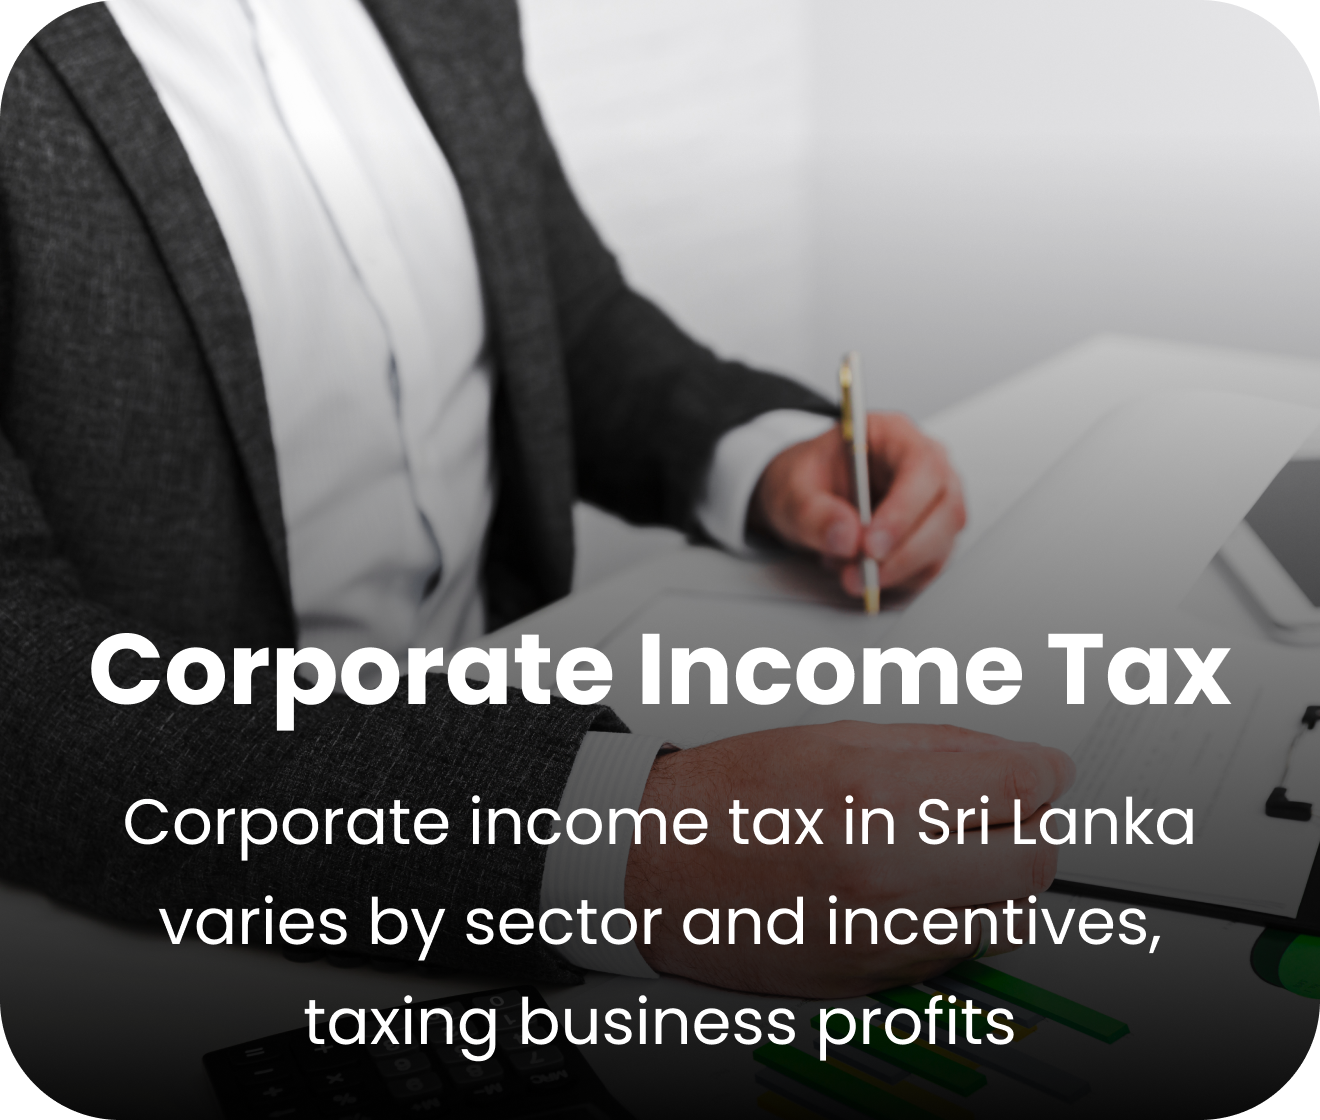
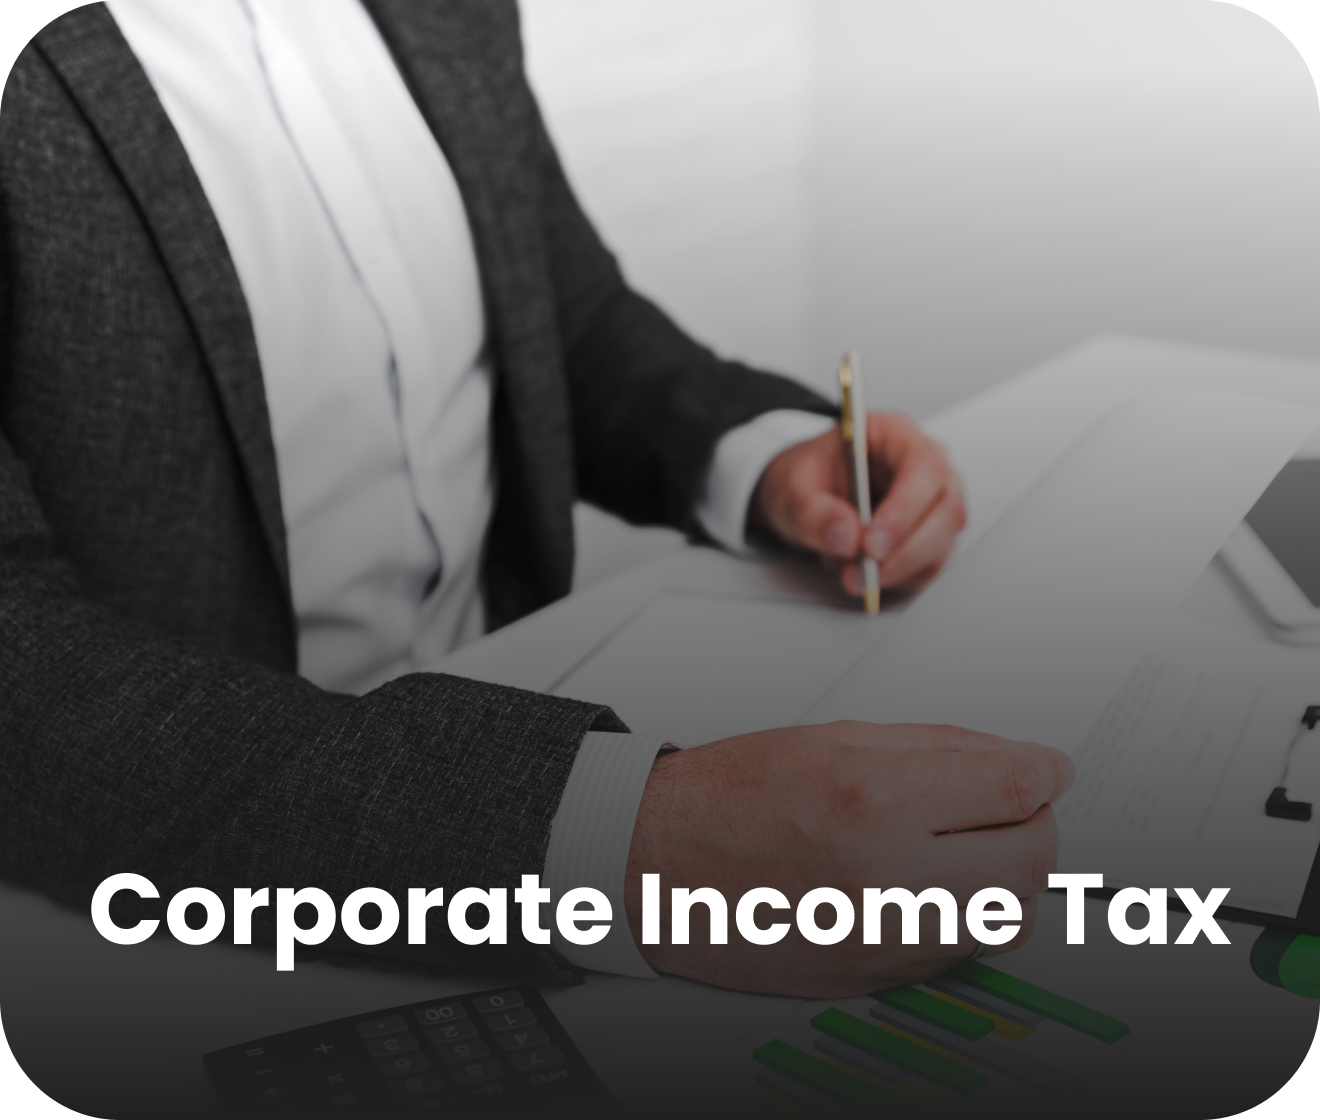
Flipping card

Changed region(s): [[0.0621, 0.7188, 0.9318, 1.0], [0.0621, 0.5625, 0.9318, 0.6562], [0.7765, 0.9688, 0.8386, 1.0]]

diff --git a/taxperts_web_final/lib/HomePage/home_desktop.dart b/taxperts_web_final/lib/HomePage/home_desktop.dart
@@ -1,3 +1,4 @@
+import 'package:flip_card/flip_card.dart';
 import 'package:flutter/material.dart';
 import 'package:taxperts_web_final/colors.dart';
 import 'package:taxperts_web_final/sizes.dart';
@@ -15,6 +16,41 @@ class HomeDesktop extends StatefulWidget {
 }
 
 class _HomeDesktopState extends State<HomeDesktop> {
+  final Map<int, GlobalKey<FlipCardState>> cardKeys = {};
+
+  @override
+  void initState() {
+    super.initState();
+    // Initialize keys for each card
+    for (int i = 0; i < 5; i++) {
+      cardKeys[i] = GlobalKey<FlipCardState>();
+    }
+  }
+
+  final List<Map<String, String>> cardData = [
+    {
+      'frontImage': 'images/IIT.png',
+      'backImage': 'images/IITback.png',
+    },
+    {
+      'frontImage': 'images/CorporateITax.png',
+      'backImage': 'images/CorporateITaxback.png',
+    },
+    {
+      'frontImage': 'images/PartnershipITax.png',
+      'backImage': 'images/PartnershipITaxback.png',
+    },
+    {
+      'frontImage': 'images/VAT.png',
+      'backImage': 'images/VATback.png',
+    },
+    {
+      'frontImage': 'images/SSCL.png',
+      'backImage': 'images/SSCLback.png',
+    },
+    // Add more image pairs if you have more than 5 cards
+  ];
+
   Map<int, bool> hoverStates = {};
   int _selectedIndex = 0;
 
@@ -224,14 +260,14 @@ class _HomeDesktopState extends State<HomeDesktop> {
                 ],
               ),
             ),
-
-            SizedBox(height: 80,),
-
+            SizedBox(
+              height: 80,
+            ),
             Row(
               mainAxisAlignment: MainAxisAlignment.center,
               children: [
                 Padding(
-                  padding:  EdgeInsets.symmetric(horizontal: p60),
+                  padding: EdgeInsets.symmetric(horizontal: p60),
                   child: Column(
                     children: [
                       Text(
@@ -241,11 +277,11 @@ class _HomeDesktopState extends State<HomeDesktop> {
                             color: Colors.black,
                             fontWeight: FontWeight.w600),
                       ),
-
                       Row(
                         children: [
                           Padding(
-                            padding: const EdgeInsets.symmetric(horizontal: 15.0,vertical: 10),
+                            padding: const EdgeInsets.symmetric(
+                                horizontal: 15.0, vertical: 10),
                             child: ElevatedButton(
                               onPressed: () {
                                 // Handle button tap
@@ -268,10 +304,9 @@ class _HomeDesktopState extends State<HomeDesktop> {
                               ),
                             ),
                           ),
-
-
                           Padding(
-                            padding: const EdgeInsets.symmetric(horizontal: 15.0,vertical: 10),
+                            padding: const EdgeInsets.symmetric(
+                                horizontal: 15.0, vertical: 10),
                             child: ElevatedButton(
                               onPressed: () {
                                 // Handle button tap
@@ -282,13 +317,12 @@ class _HomeDesktopState extends State<HomeDesktop> {
                                     'Read More',
                                     style: TextStyle(fontSize: 14),
                                   ),
-
                                   Padding(
-                                    padding: const EdgeInsets.only(top: 1.0,left: 2),
+                                    padding: const EdgeInsets.only(
+                                        top: 1.0, left: 2),
                                     child: Icon(
                                       Icons.keyboard_double_arrow_right_rounded,
-                                      color:
-                                      Colors.white, // Icon color green
+                                      color: Colors.white, // Icon color green
                                       size: 20,
                                     ),
                                   ),
@@ -310,15 +344,11 @@ class _HomeDesktopState extends State<HomeDesktop> {
                           ),
                         ],
                       ),
-
-
                     ],
                   ),
                 ),
-
-
                 Padding(
-                  padding:  EdgeInsets.symmetric(horizontal: p60),
+                  padding: EdgeInsets.symmetric(horizontal: p60),
                   child: Column(
                     children: [
                       Text(
@@ -328,11 +358,11 @@ class _HomeDesktopState extends State<HomeDesktop> {
                             color: Colors.black,
                             fontWeight: FontWeight.w600),
                       ),
-
                       Row(
                         children: [
                           Padding(
-                            padding: const EdgeInsets.symmetric(horizontal: 15.0,vertical: 10),
+                            padding: const EdgeInsets.symmetric(
+                                horizontal: 15.0, vertical: 10),
                             child: ElevatedButton(
                               onPressed: () {
                                 // Handle button tap
@@ -355,10 +385,9 @@ class _HomeDesktopState extends State<HomeDesktop> {
                               ),
                             ),
                           ),
-
-
                           Padding(
-                            padding: const EdgeInsets.symmetric(horizontal: 15.0,vertical: 10),
+                            padding: const EdgeInsets.symmetric(
+                                horizontal: 15.0, vertical: 10),
                             child: ElevatedButton(
                               onPressed: () {
                                 // Handle button tap
@@ -369,13 +398,12 @@ class _HomeDesktopState extends State<HomeDesktop> {
                                     'Read More',
                                     style: TextStyle(fontSize: 14),
                                   ),
-
                                   Padding(
-                                    padding: const EdgeInsets.only(top: 1.0,left: 2),
+                                    padding: const EdgeInsets.only(
+                                        top: 1.0, left: 2),
                                     child: Icon(
                                       Icons.keyboard_double_arrow_right_rounded,
-                                      color:
-                                      Colors.white, // Icon color green
+                                      color: Colors.white, // Icon color green
                                       size: 20,
                                     ),
                                   ),
@@ -397,20 +425,14 @@ class _HomeDesktopState extends State<HomeDesktop> {
                           ),
                         ],
                       ),
-
-
                     ],
                   ),
                 ),
-
               ],
             ),
-
-
-            SizedBox(height: 60,),
-
-
-
+            SizedBox(
+              height: 60,
+            ),
             Padding(
               padding:
                   const EdgeInsets.symmetric(horizontal: 15.0, vertical: 30),
@@ -428,30 +450,39 @@ class _HomeDesktopState extends State<HomeDesktop> {
                 scrollDirection: Axis.horizontal,
                 child: Row(
                   mainAxisAlignment: MainAxisAlignment.center,
-                  children: [
-                    Padding(
-                      padding: EdgeInsets.symmetric(horizontal: p20),
-                      child: Image.asset('images/IIT.png', height: 196),
-                    ),
-                    Padding(
-                      padding: EdgeInsets.symmetric(horizontal: p20),
-                      child:
-                          Image.asset('images/CorporateITax.png', height: 196),
-                    ),
-                    Padding(
-                      padding: EdgeInsets.symmetric(horizontal: p20),
-                      child: Image.asset('images/PartnershipITax.png',
-                          height: 196),
-                    ),
-                    Padding(
-                      padding: EdgeInsets.symmetric(horizontal: p20),
-                      child: Image.asset('images/VAT.png', height: 196),
-                    ),
-                    Padding(
-                      padding: EdgeInsets.symmetric(horizontal: p20),
-                      child: Image.asset('images/SSCL.png', height: 196),
-                    ),
-                  ],
+                  children: cardData.asMap().entries.map((entry) {
+                    int idx = entry.key;
+                    Map<String, String> card = entry.value;
+
+                    return MouseRegion(
+                      onEnter: (_) {
+                        // Flip the card when the mouse enters
+                        final key = cardKeys[idx];
+                        key?.currentState?.toggleCard();
+                      },
+                      onExit: (_) {
+                        // Reset the card to its original state when the mouse exits
+                        final key = cardKeys[idx];
+                        key?.currentState?.toggleCard();
+                      },
+                      child: Padding(
+                        padding: EdgeInsets.symmetric(horizontal: p20),
+                        child: FlipCard(
+                          key:
+                              cardKeys[idx], // Assign a unique key to each card
+                          flipOnTouch: false, // Disable flipping on touch
+                          direction: FlipDirection.HORIZONTAL,
+                          front: Card(
+                            child:
+                                Image.asset(card['frontImage']!, height: 196),
+                          ),
+                          back: Card(
+                            child: Image.asset(card['backImage']!, height: 196),
+                          ),
+                        ),
+                      ),
+                    );
+                  }).toList(),
                 ),
               ),
             ),
